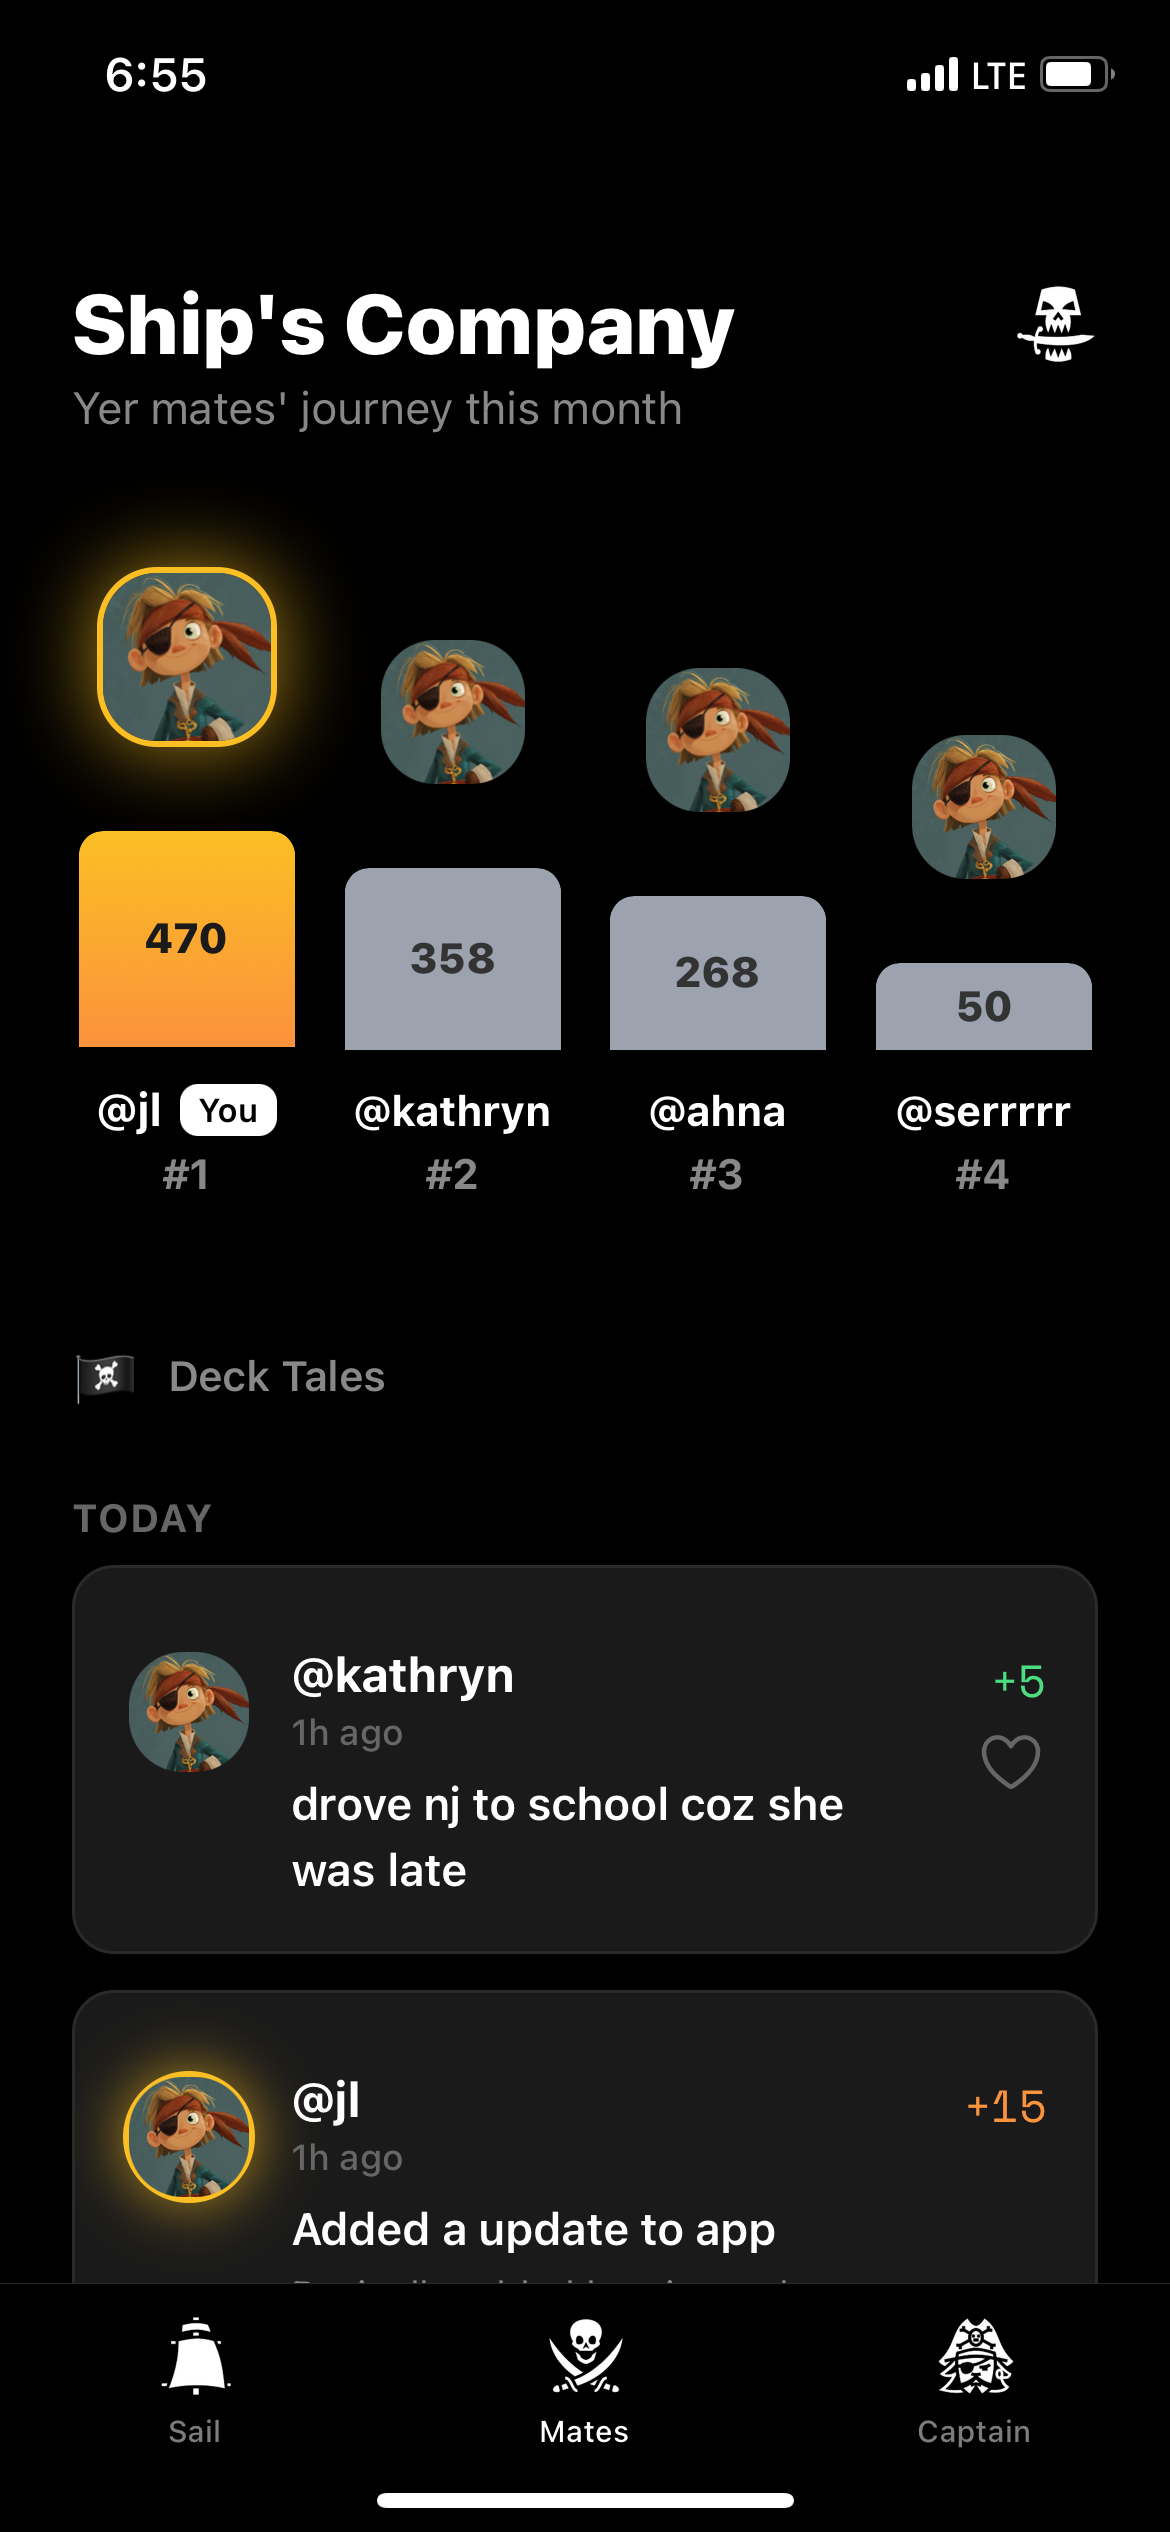
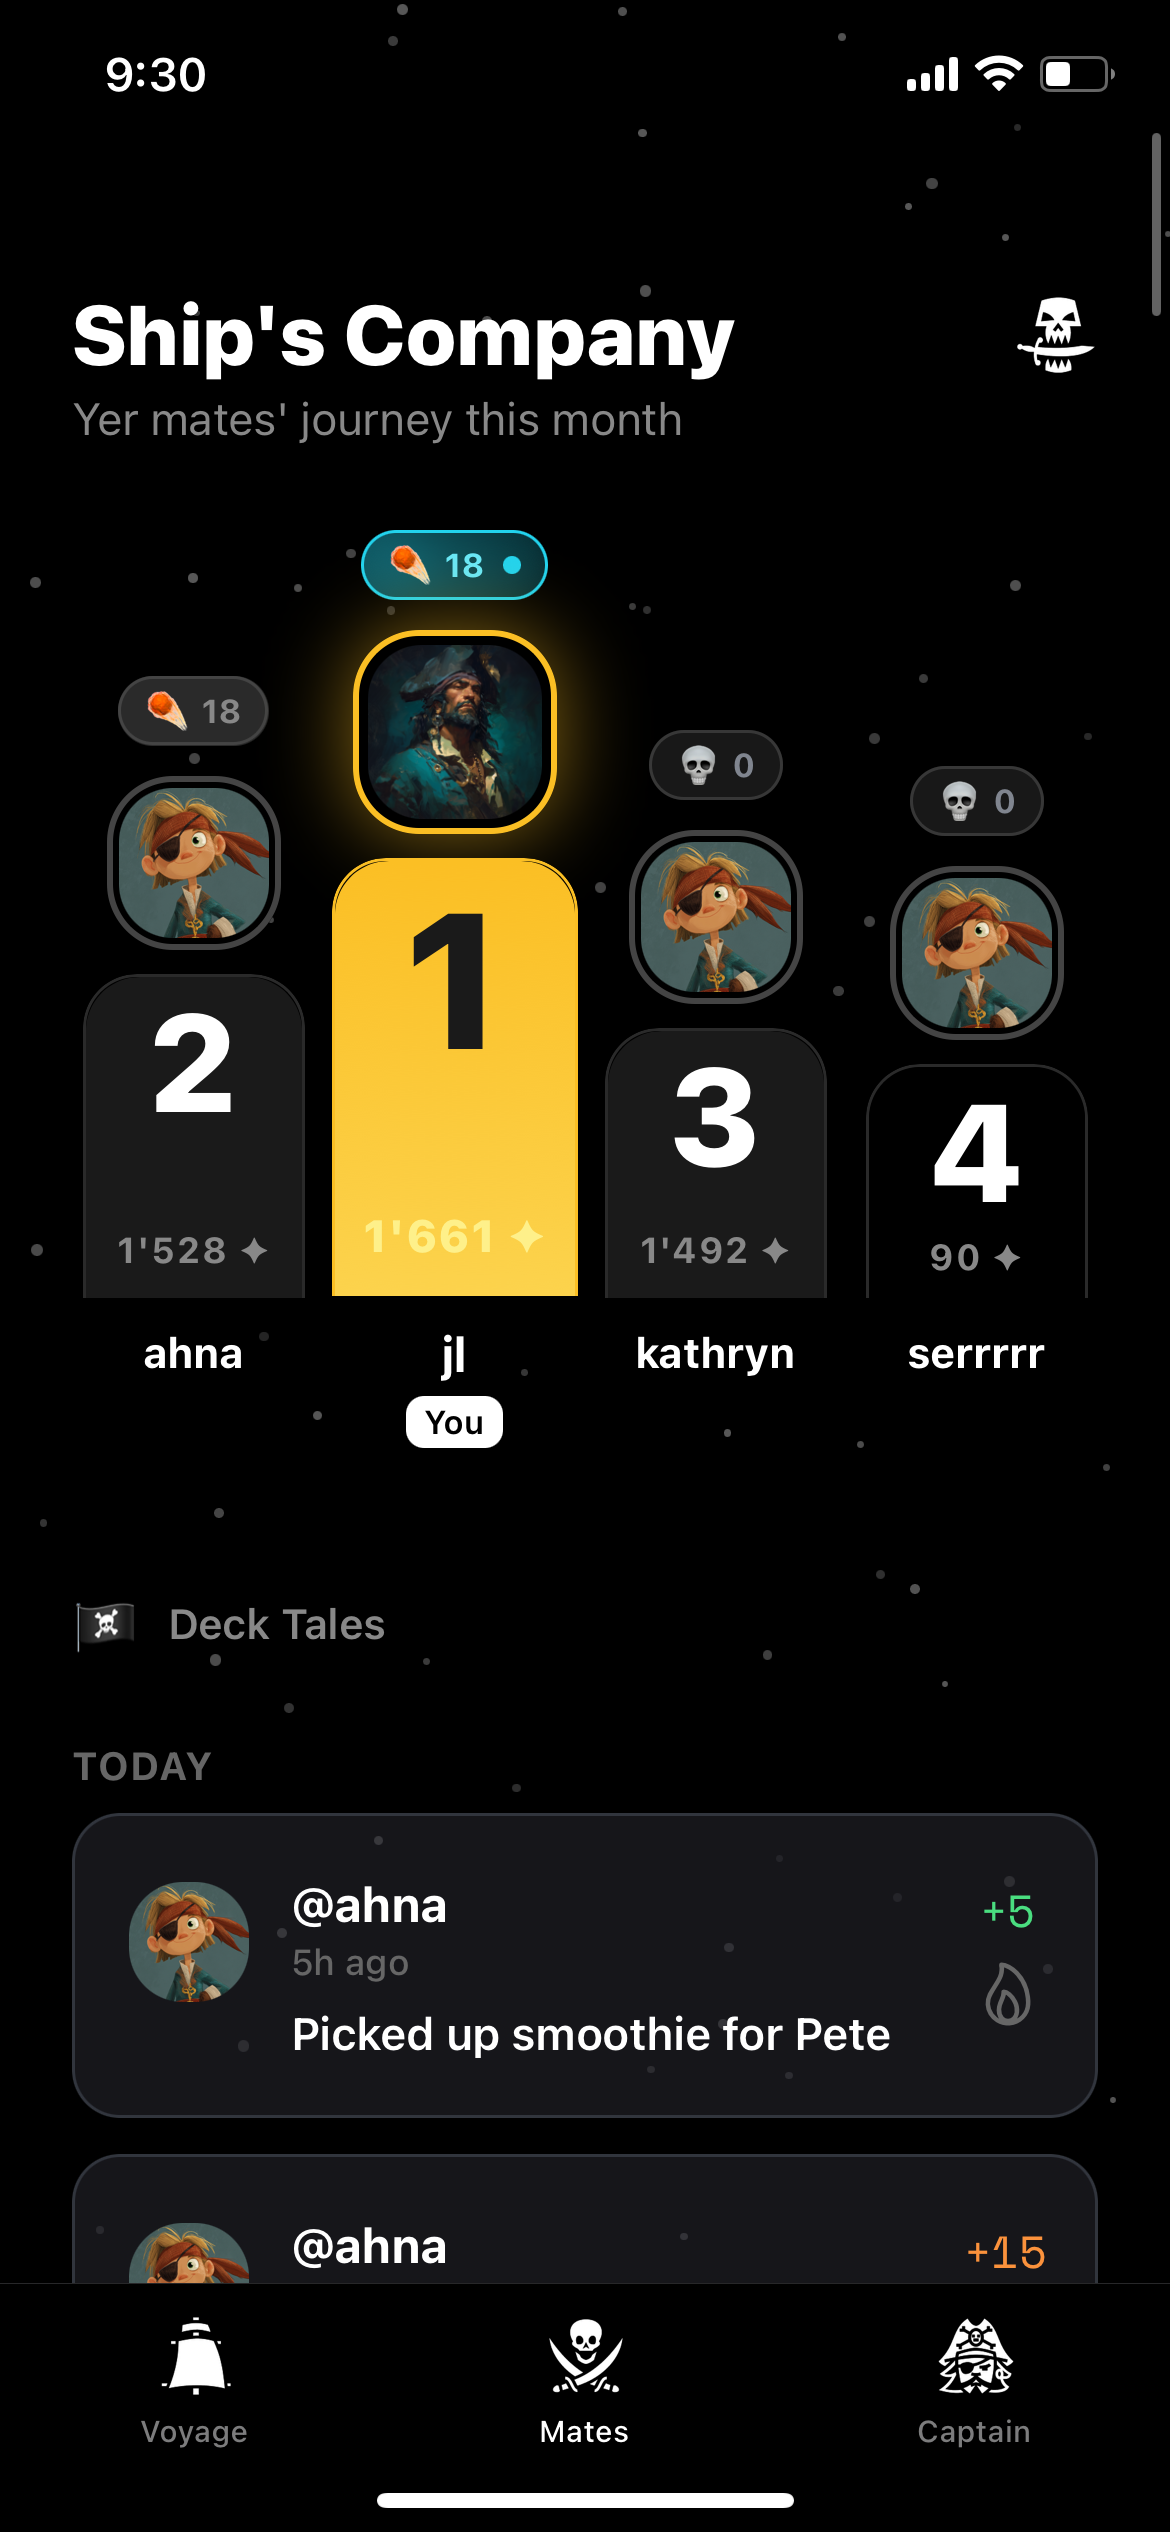
V2 - updated bullet points, header and blaze leaderboard asset.

diff --git a/index.html b/index.html
@@ -83,7 +83,7 @@
       .hero {
         position: relative;
         width: 100%;
-        min-height: 45vh;
+        min-height: 52vh;
         display: flex;
         align-items: center;
         justify-content: center;
@@ -115,38 +115,51 @@
       .hero-inner {
         position: relative;
         z-index: 1;
-        max-width: 640px;
-        padding: 48px 24px 56px;
+        max-width: 720px;
+        padding: 56px 24px 64px;
       }
       @media (max-width: 640px) {
         .hero {
-          min-height: 38vh;
+          min-height: 42vh;
         }
         .hero-inner {
-          padding: 36px 20px 48px;
+          padding: 40px 20px 52px;
         }
       }
       .hero-title {
-        margin: 0 0 16px;
-        font-size: 120px;
+        margin: 0 0 12px;
+        font-size: 96px;
         font-weight: 900;
         letter-spacing: -4px;
         text-transform: uppercase;
         color: #fff;
+        line-height: 0.95;
         text-shadow:
           0 0 20px rgba(255, 255, 255, 0.3),
           0 0 40px rgba(0, 212, 255, 0.2);
       }
       @media (max-width: 640px) {
         .hero-title {
-          font-size: 72px;
+          font-size: 64px;
           letter-spacing: -2px;
         }
       }
+      .hero-eyebrow {
+        margin: 0 auto 20px;
+        max-width: 520px;
+        font-size: 15px;
+        font-weight: 500;
+        color: rgba(255, 255, 255, 0.55);
+        line-height: 1.5;
+        letter-spacing: 0.02em;
+      }
       .hero-tagline {
-        margin: 0 0 28px;
-        font-size: 24px;
-        font-weight: 600;
+        margin: 0 auto 16px;
+        max-width: 640px;
+        font-size: clamp(28px, 5vw, 42px);
+        font-weight: 700;
+        line-height: 1.15;
+        letter-spacing: -0.02em;
         background: linear-gradient(
           90deg,
           #00ffff,
@@ -169,18 +182,26 @@
           background-position: 300% center;
         }
       }
-      .hero-bio {
-        margin: 0 auto 28px;
-        max-width: 480px;
-        font-size: 16px;
-        color: var(--muted);
-        line-height: 1.6;
+      .hero-subtitle {
+        margin: 0 auto 32px;
+        max-width: 560px;
+        font-size: 15px;
+        font-weight: 500;
+        color: rgba(255, 255, 255, 0.78);
+        line-height: 1.55;
+        letter-spacing: 0.01em;
+      }
+      .hero-subtitle .hero-skill {
+        color: rgba(255, 255, 255, 0.45);
+        font-weight: 400;
+        padding: 0 0.35em;
       }
       .hero-cta {
         display: flex;
         flex-wrap: wrap;
         gap: 12px;
         justify-content: center;
+        margin-top: 4px;
       }
       .btn {
         display: inline-flex;
@@ -850,8 +871,11 @@
       <header class="hero hero-image">
         <div class="hero-inner">
           <h1 class="hero-title">JL</h1>
+          <p class="hero-eyebrow">I build the apps that don't exist.</p>
           <p class="hero-tagline">Passionate about creating</p>
-          <p class="hero-bio">I build the apps that don't exist.</p>
+          <p class="hero-subtitle">
+            React Native Engineer<span class="hero-skill">·</span>TypeScript<span class="hero-skill">·</span>Native iOS Integrations
+          </p>
           <div class="hero-cta">
             <a
               class="btn btn-text"
@@ -986,14 +1010,27 @@
                 <div class="experience-dates">May 2024 – Dec 2024 · 8 mos</div>
                 <ul class="experience-bullets">
                   <li>
-                    Co-developed a
+                    Built and shipped a cross-platform
                     <a
                       href="https://apps.apple.com/us/app/anchpor-asset-assistant/id6504777563"
                       target="_blank"
                       class="experience-link"
-                      >financial assets app</a
+                      >financial application</a
                     >
-                    using React Native, TypeScript, and Expo.
+                    using React Native, Expo, TypeScript, SQLite/Drizzle ORM,
+                    Firebase, and React Query.
+                  </li>
+                  <li>
+                    Implemented offline-first local persistence and
+                    synchronization flows.
+                  </li>
+                  <li>
+                    Reduced regression issues by building E2E test coverage with
+                    Maestro for critical onboarding and payment flows.
+                  </li>
+                  <li>
+                    Managed production mobile releases and deployment workflows
+                    using Expo and EAS.
                   </li>
                 </ul>
               </div>
@@ -1014,10 +1051,22 @@
                 </div>
                 <ul class="experience-bullets">
                   <li>
-                    Integrated new features into the mobile app responsible for
-                    managing golf reservations and payments.
+                    Integrated Star Micronics POS hardware SDKs into React
+                    Native through custom native modules in Swift and
+                    Objective-C.
                   </li>
-                  <li>Refactored existing code.</li>
+                  <li>
+                    Built reusable POS printing infrastructure used across
+                    mobile checkout workflows.
+                  </li>
+                  <li>
+                    Collaborated with backend APIs and Stripe integrations to
+                    support payment and checkout flows.
+                  </li>
+                  <li>
+                    Mentored interns through onboarding, setup, and pull request
+                    reviews.
+                  </li>
                 </ul>
               </div>
             </div>
@@ -1035,11 +1084,18 @@
                 <div class="experience-dates">Sep 2018 – Apr 2019 · 8 mos</div>
                 <ul class="experience-bullets">
                   <li>
-                    Developed enterprise features in product used by Apple and
-                    Google.
+                    Developed internal networking and enterprise management
+                    features in a large-scale software platform used by Apple,
+                    Facebook, and JPMC.
                   </li>
-                  <li>Collaborated cross-team in an agile environment.</li>
-                  <li>Presented demos to stakeholders.</li>
+                  <li>
+                    Collaborated within agile engineering teams across
+                    frontend/backend workflows.
+                  </li>
+                  <li>
+                    Prepared and presented demos in front of stakeholders and
+                    managers.
+                  </li>
                 </ul>
               </div>
             </div>
